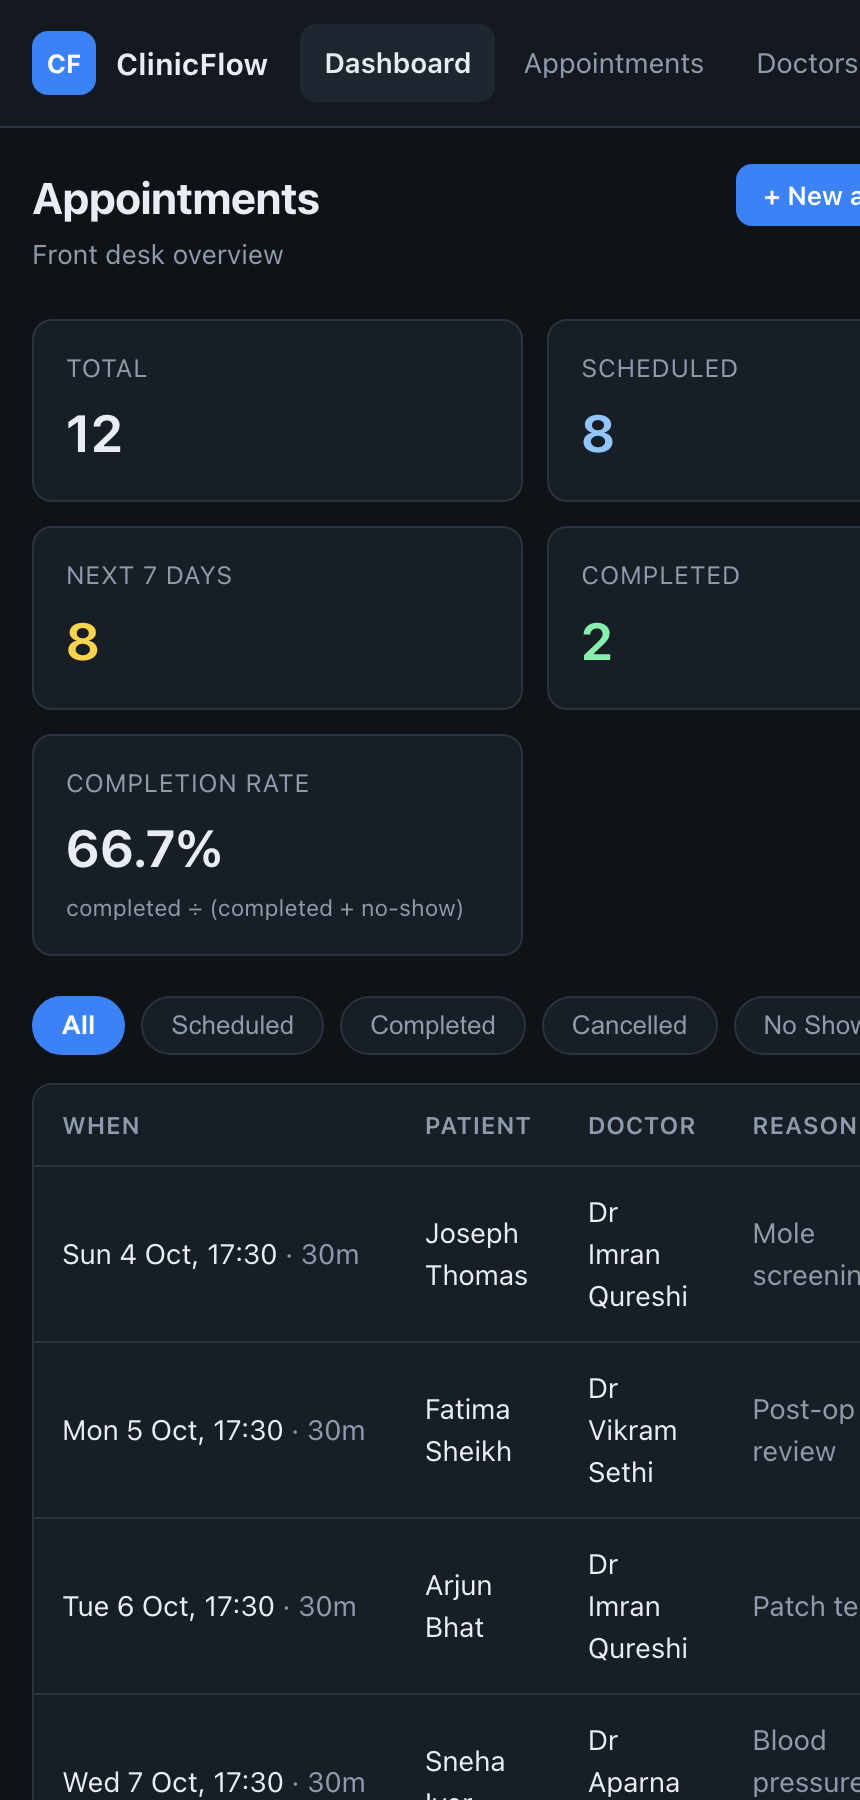
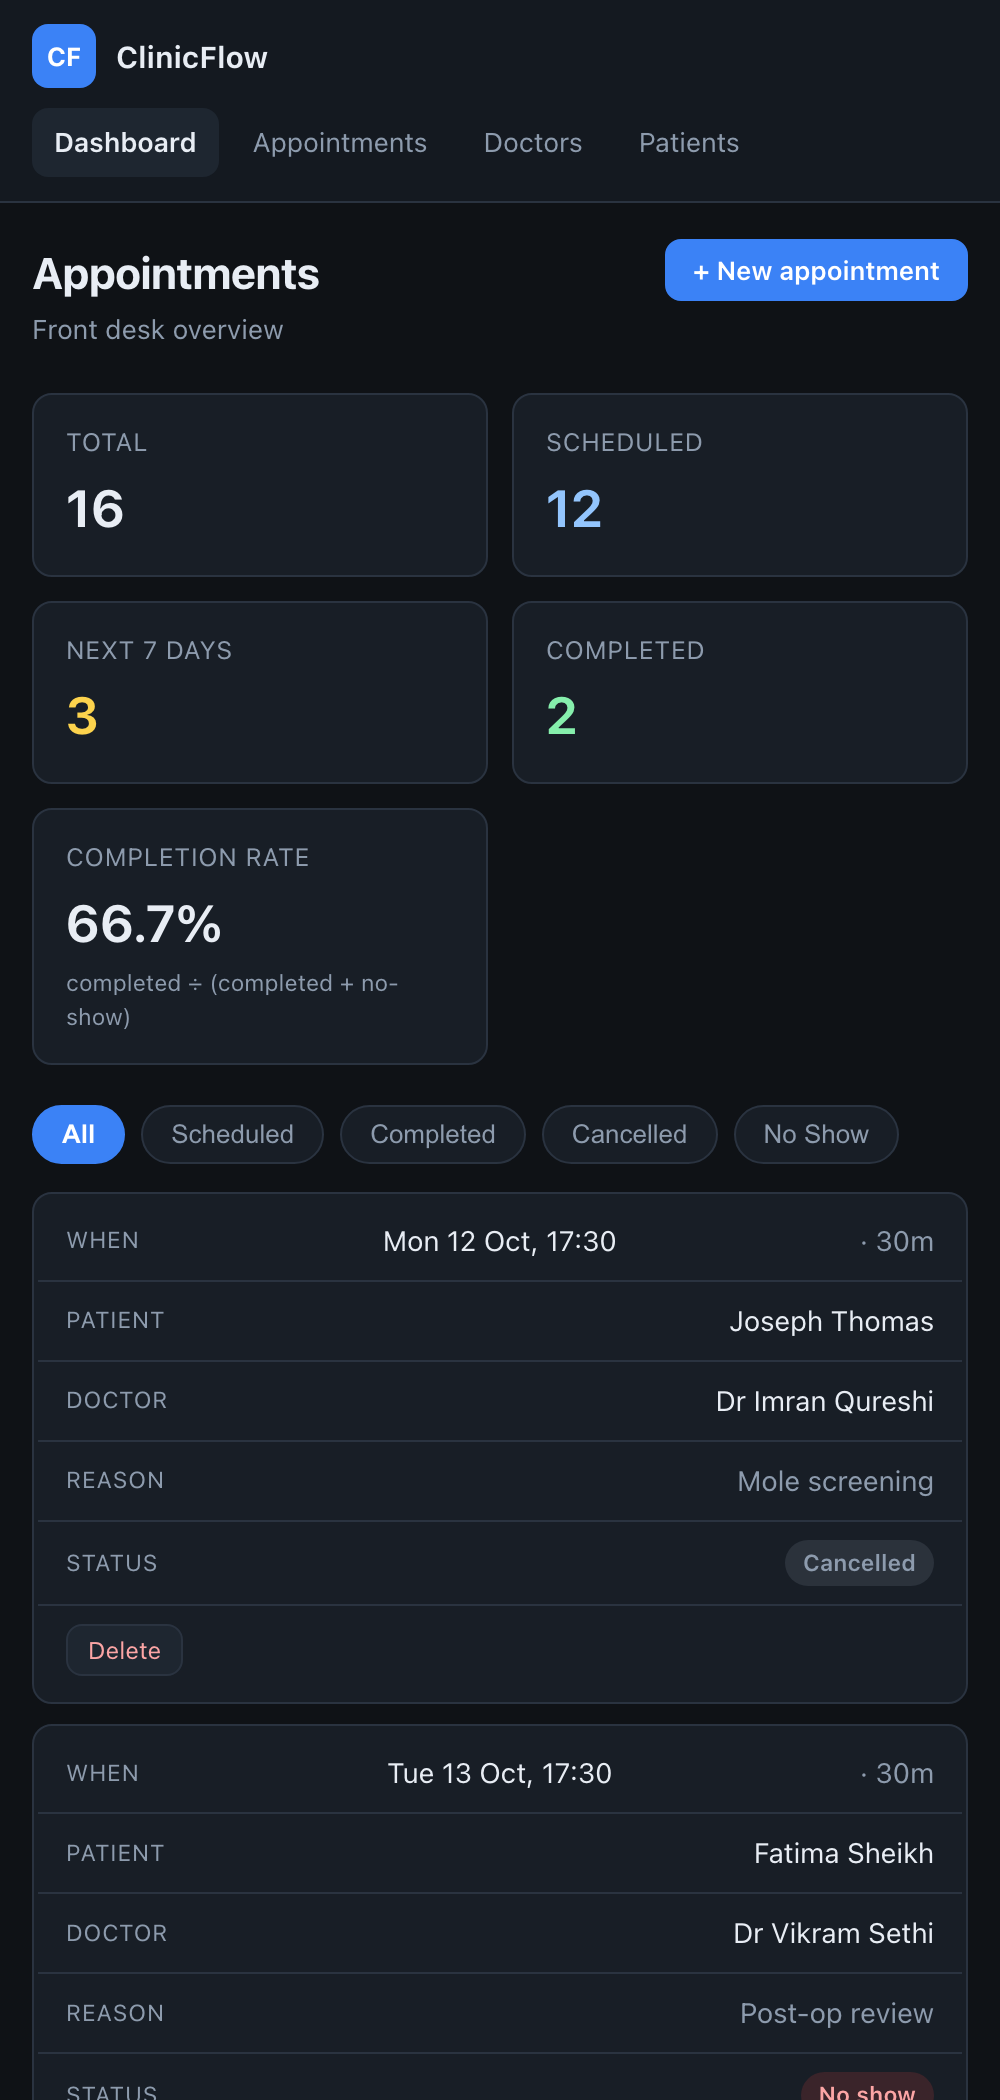
Fix the responsive layout at phone widths
Grid and flex children needed min-width: 0, and the nav wraps instead of scrolling so the last item is not sliced. The table stacks into cards below 720px.

diff --git a/devops-capstone/frontend/src/styles.css b/devops-capstone/frontend/src/styles.css
@@ -157,12 +157,77 @@ h1 { margin: 0; font-size: 22px; letter-spacing: -.2px; }
 @media (max-width: 860px) {
   .app { grid-template-columns: 1fr; }
   .sidebar {
-    flex-direction: row; align-items: center; gap: 16px;
+    /* brand on its own line, nav underneath: at 390px the wordmark plus four
+       items cannot share a row without something being cut. */
+    flex-direction: column; align-items: flex-start; gap: 10px;
     border-right: none; border-bottom: 1px solid var(--border); padding: 12px 16px;
+    /* A grid item defaults to min-width:auto, so it refuses to shrink below the
+       intrinsic width of its contents. In row mode that is the whole nav laid
+       out in a line, which made the sidebar wider than the phone and dragged
+       the entire grid with it -- the header button and the table ended up
+       clipped off the right edge rather than wrapping or scrolling. */
+    min-width: 0;
   }
-  .nav { flex-direction: row; overflow-x: auto; }
+  .nav {
+    flex-direction: row;
+    /* WRAP rather than scroll. A horizontally scrolling nav hides whatever does
+       not fit, and the last item ends up sliced down the middle -- which reads
+       as a broken layout rather than as something you can swipe. Wrapping keeps
+       every destination visible at any width, which is the point of a nav. */
+    flex-wrap: wrap;
+    min-width: 0;
+    gap: 4px 6px;
+  }
+  .nav__item { white-space: nowrap; padding: 7px 11px; font-size: 13.5px; }
   .sidebar__foot { display: none; }
   .main { padding: 18px 16px 40px; }
+  .header { gap: 12px; }
+  .header .btn--primary { white-space: nowrap; }
   .row-actions { justify-content: flex-start; }
   .form__row { grid-template-columns: 1fr; }
+}
+
+
+/* ---------- phones: stack the table into cards ----------
+   A six-column appointment table cannot be read on a 430px screen. Rather than
+   leave it scrolling sideways -- which works, but hides half the row until you
+   swipe -- the header is dropped and every cell carries its own label, so each
+   appointment becomes a self-contained card. */
+@media (max-width: 720px) {
+  .card { overflow: visible; background: transparent; border: none; }
+  .table, .table tbody, .table tr, .table td { display: block; width: 100%; }
+  .table thead { display: none; }
+
+  .table tr {
+    background: var(--surface);
+    border: 1px solid var(--border);
+    border-radius: var(--radius);
+    margin-bottom: 10px;
+    padding: 4px 2px;
+  }
+  .table tr:hover td { background: transparent; }
+
+  .table td {
+    display: flex;
+    align-items: center;
+    justify-content: space-between;
+    gap: 12px;
+    border-bottom: 1px solid var(--border);
+    padding: 9px 14px;
+    white-space: normal;
+  }
+  .table td:last-child { border-bottom: none; }
+
+  .table td::before {
+    content: attr(data-label);
+    color: var(--muted);
+    font-size: 11.5px;
+    text-transform: uppercase;
+    letter-spacing: .4px;
+    flex: 0 0 auto;
+  }
+  /* the actions cell has no label, so let the buttons use the full width */
+  .table td.row-actions::before { content: none; }
+  .table td.row-actions { justify-content: flex-start; flex-wrap: wrap; gap: 6px; }
+  .table td.nowrap { white-space: normal; }
 }

diff --git a/devops-capstone/frontend/src/App.jsx b/devops-capstone/frontend/src/App.jsx
@@ -128,12 +128,16 @@ export default function App() {
               <tbody>
                 {appointments.map((a) => (
                   <tr key={a.id}>
-                    <td className="nowrap">{whenLabel(a.scheduled_at)}<span className="muted"> · {a.duration_minutes}m</span></td>
-                    <td>{a.patient_name}</td>
-                    <td>{a.doctor_name}</td>
-                    <td className="muted">{a.reason || '—'}</td>
-                    <td><StatusBadge status={a.status} /></td>
-                    <td className="row-actions">
+                    {/* data-label drives the stacked card layout on phones: the
+                        header row is hidden there and each cell prints its own
+                        label instead, so a six-column table does not have to be
+                        scrolled sideways on a 430px screen. */}
+                    <td className="nowrap" data-label="When">{whenLabel(a.scheduled_at)}<span className="muted"> · {a.duration_minutes}m</span></td>
+                    <td data-label="Patient">{a.patient_name}</td>
+                    <td data-label="Doctor">{a.doctor_name}</td>
+                    <td className="muted" data-label="Reason">{a.reason || '—'}</td>
+                    <td data-label="Status"><StatusBadge status={a.status} /></td>
+                    <td className="row-actions" data-label="">
                       {a.status === 'scheduled' && (
                         <>
                           <button className="btn btn--sm" onClick={() => setStatus(a.id, 'completed')}>Complete</button>
